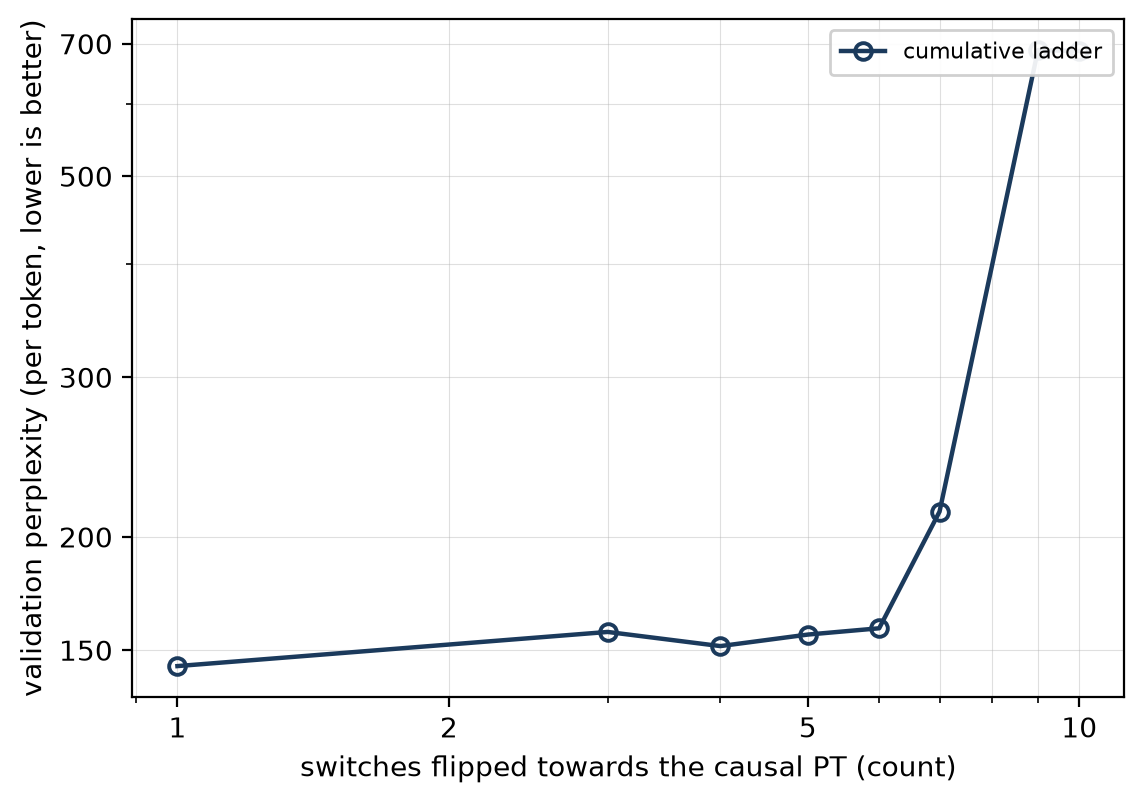
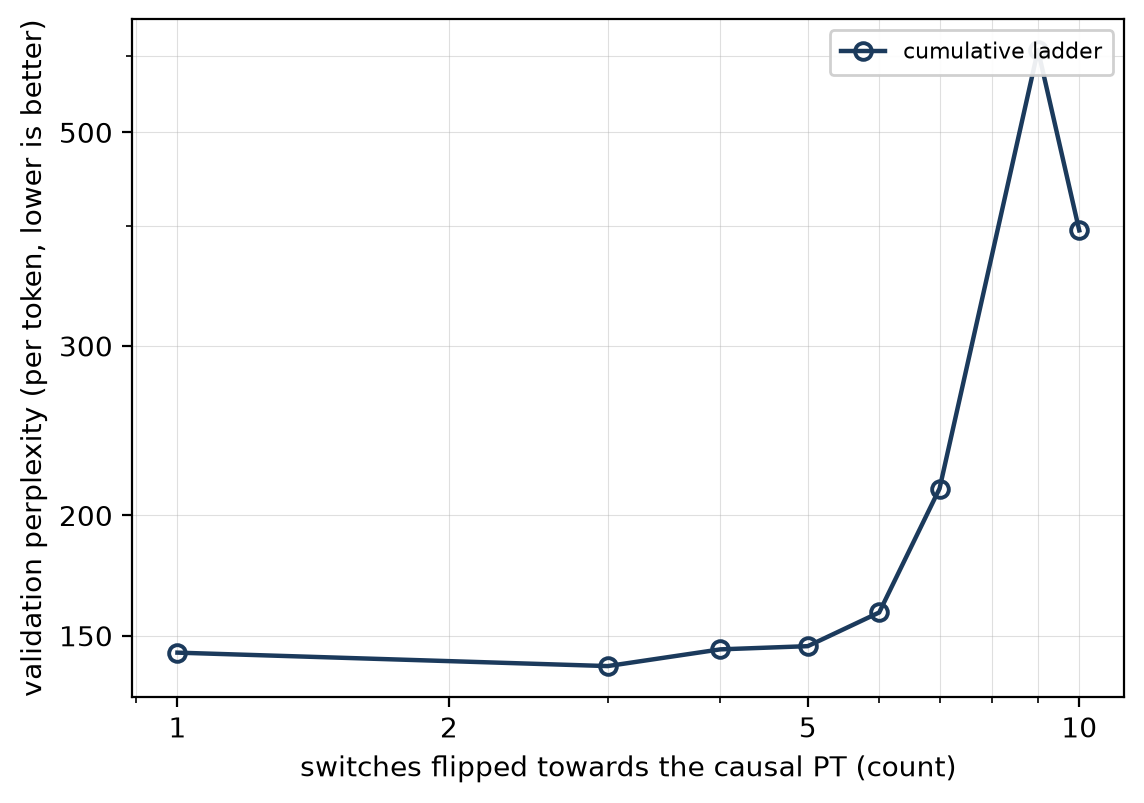
v1.12.1 [docs]: regenerated figures and tables after the seed-mean and window fixes

diff --git a/paper/figures/table_matched.tex b/paper/figures/table_matched.tex
@@ -5,10 +5,14 @@ causal PT & non-emb. & val ppl & transformer & ratio & looped & ratio \\
 \midrule
 $\nlab=32$, $\krank=8$ & 4{,}160 & 256.8 $\pm$ 1.5 & --- & --- & 204.7 & 1.25 \\
 $\nlab=64$, $\krank=8$ & 8{,}320 & 232.0 $\pm$ 1.6 & --- & --- & 178.5 & 1.30 \\
-$\nlab=48$, $\krank=12$ & 9{,}312 & 247.5 $\pm$ 0.0 & --- & --- & 174.8 & 1.42 \\
+$\nlab=48$, $\krank=12$ & 9{,}312 & 235.5 $\pm$ 10.4 & --- & --- & 174.8 & 1.35 \\
+$\nlab=64$, $\krank=16$ & 16{,}512 & 225.9 $\pm$ 2.5 & 184.1 & 1.23 & 159.8 & 1.41 \\
 $\nlab=96$, $\krank=12$ & 18{,}624 & 223.1 $\pm$ 5.6 & 178.5 & 1.25 & 157.6 & 1.42 \\
 $\nlab=128$, $\krank=16$ & 33{,}024 & 214.6 $\pm$ 2.0 & 155.9 & 1.38 & 147.7 & 1.45 \\
+$\nlab=96$, $\krank=24$ & 37{,}056 & 213.5 $\pm$ 3.8 & 152.8 & 1.40 & 146.1 & 1.46 \\
+$\nlab=128$, $\krank=32$ & 65{,}792 & 214.0 $\pm$ 4.2 & 141.2 & 1.52 & 139.9 & 1.53 \\
 $\nlab=192$, $\krank=24$ & 74{,}112 & 206.9 $\pm$ 9.2 & 139.6 & 1.48 & 139.1 & 1.49 \\
-$\nlab=256$, $\krank=32$ & 131{,}584 & 204.6 $\pm$ 5.8 & 132.6 & 1.54 & 136.2 & 1.50 \\
+$\nlab=256$, $\krank=32$ & 131{,}584 & 206.1 $\pm$ 4.8 & 132.6 & 1.55 & 136.2 & 1.51 \\
+$\nlab=192$, $\krank=48$ & 147{,}840 & 207.1 $\pm$ 0.0 & 131.7 & 1.57 & 136.0 & 1.52 \\
 \bottomrule
 \end{tabular}

diff --git a/paper/figures/table_switches.tex b/paper/figures/table_switches.tex
@@ -6,12 +6,12 @@ switch & S1 val & $\Delta$ & S2 val & $\Delta$ \\
 attn\_out\_proj & 131.5 & +2.3 & 686.9 & -291.4 \\
 attn\_query\_proj & 131.1 & +1.9 & 473.4 & -77.9 \\
 attn\_value & 128.7 & -0.6 & --- & --- \\
-ffn & 144.4 & +15.1 & 686.9 & -291.4 \\
-norm & 128.6 & -0.7 & 560.1 & -164.6 \\
+ffn & 144.4 & +15.1 & 530.7 & -135.3 \\
+norm & 128.6 & -0.7 & 501.9 & -106.4 \\
 position & 128.9 & -0.4 & 430.1 & -34.6 \\
-readout & --- & --- & 688.8 & -293.3 \\
+readout & 687.5 & +558.2 & 688.8 & -293.3 \\
 residual & 136.7 & +7.5 & 687.1 & -291.6 \\
 state & 693.5 & +564.3 & 686.8 & -291.3 \\
-weight\_sharing & 141.8 & +12.5 & 479.9 & -84.4 \\
+weight\_sharing & 141.8 & +12.5 & 387.6 & +7.9 \\
 \bottomrule
 \end{tabular}

diff --git a/paper/figures/table_globalhead.tex b/paper/figures/table_globalhead.tex
@@ -1,6 +1,8 @@
-% Generated placeholder: this grid has not finished.
-\begin{tabular}{l}
+% Generated by `python -m experiments.make_report`. Do not edit by hand.
+\begin{tabular}{rrllrrlr}
 \toprule
-\textit{global-head grid not yet complete} \\
+$d$ & $m$ & init sd & in $L_2$ & dist. & $n$ & val ppl & $H(Q_g)/\max$ \\
+\midrule
+32 & 0 & --- & yes & normal & 1 & 244.3 $\pm$ 0.0 & 0.000 \\
 \bottomrule
 \end{tabular}
